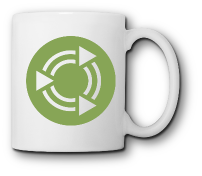
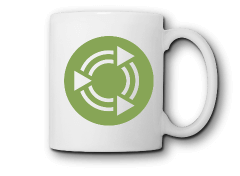
Shop: Improve margin for product image
Product images and descriptions were too close together.

diff --git a/assets/ubuntu-mate.css b/assets/ubuntu-mate.css
@@ -2317,18 +2317,16 @@ button.dropdown:hover {
     color: var(--ubuntu-mate-dark);
 }
 
-.catalogue-item .product-image,
-.catalogue-item .product-image img {
+.catalogue-item .product-image {
+    display: flex;
     max-height: 300px;
     max-width: 300px;
 }
 
-.catalogue-item .product-image {
-    display: flex;
-}
-
 .catalogue-item .product-image img {
     margin: auto;
+    max-height: 280px;
+    max-width: 280px;
 }
 
 .catalogue-item .product-description {
